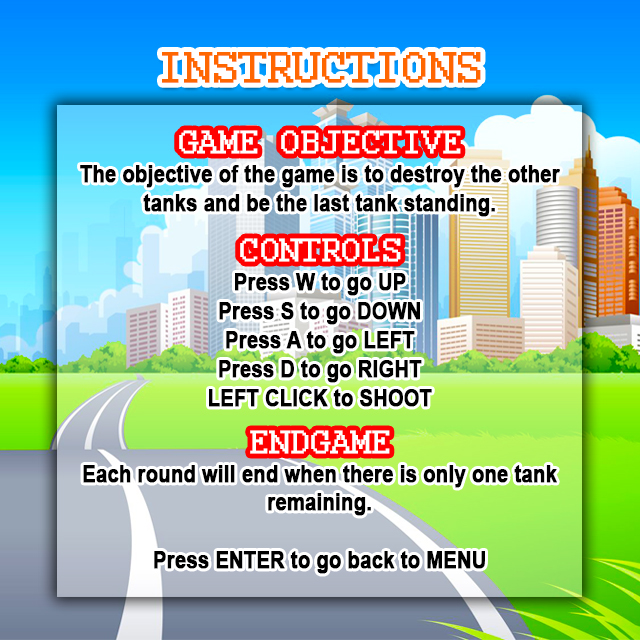
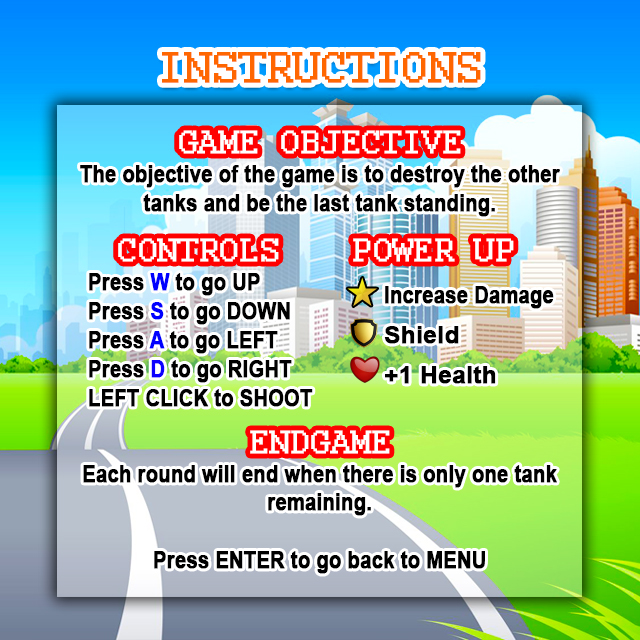
added backgrounds

Changed region(s): [[0.125, 0.3438, 0.875, 0.6562]]

diff --git a/tankCity/src/states/EndState.java b/tankCity/src/states/EndState.java
@@ -1,60 +1,46 @@
 package states;
 
-
 import java.awt.Font;
 
 import org.newdawn.slick.GameContainer;
 import org.newdawn.slick.Graphics;
+import org.newdawn.slick.Image;
+import org.newdawn.slick.Input;
 import org.newdawn.slick.SlickException;
 import org.newdawn.slick.UnicodeFont;
 import org.newdawn.slick.font.effects.ColorEffect;
 import org.newdawn.slick.state.BasicGameState;
 import org.newdawn.slick.state.StateBasedGame;
 
-import tanks.Constants;
-import tanks.Engine;
-import udpModule.UDPclient;
+import tanks.Resources;
 
 public class EndState extends BasicGameState{
-	 private UnicodeFont font;
-	 private float textWidth;
-	 private String text,scores;
-	 private UDPclient udpclient;
-
+	private Image img;
+		
 	@Override
-	public void init(GameContainer arg0, StateBasedGame arg1) throws SlickException {
+	public void init(GameContainer gc, StateBasedGame s) throws SlickException {
 		// TODO Auto-generated method stub
-		font = getNewFont("Arial", 48);
-        udpclient = Engine.udpclient;
+		img = Resources.getImage("endstate");
+		
 	}
 
 	@Override
-	public void render(GameContainer arg0, StateBasedGame arg1, Graphics arg2) throws SlickException {
+	public void render(GameContainer gc, StateBasedGame s, Graphics g) throws SlickException {
 		// TODO Auto-generated method stub
-		font.loadGlyphs();
-		text = "GAME OVER";
-		scores = "";
-        textWidth = font.getWidth(text);
-		font.drawString(Constants.WIDTH/2f - textWidth/2f, 100, text);
-
+		img.draw(0,0);
 	}
-	
+
+	@Override
+	public void update(GameContainer gc, StateBasedGame s, int delta) throws SlickException {
+		// TODO Auto-generated method stub
+		if (gc.getInput().isKeyPressed(Input.KEY_ENTER)){
+            s.enterState(States.MENU);
+        }
+	}
+
 	@Override
 	public int getID() {
 		// TODO Auto-generated method stub
 		return States.END;
 	}
-	public UnicodeFont getNewFont(String fontName, int fontSize) {
-		font = new UnicodeFont(new Font(fontName, Font.BOLD, fontSize));
-		font.addGlyphs("@");
-		font.getEffects().add(new ColorEffect(java.awt.Color.white));
-		return (font);
-	}
-
-	@Override
-	public void update(GameContainer arg0, StateBasedGame arg1, int arg2) throws SlickException {
-		// TODO Auto-generated method stub
-		
-	}
-
 }

diff --git a/tankCity/src/states/ManualState.java b/tankCity/src/states/ManualState.java
@@ -4,6 +4,7 @@ import java.awt.Font;
 
 import org.newdawn.slick.GameContainer;
 import org.newdawn.slick.Graphics;
+import org.newdawn.slick.Image;
 import org.newdawn.slick.Input;
 import org.newdawn.slick.SlickException;
 import org.newdawn.slick.UnicodeFont;
@@ -11,30 +12,22 @@ import org.newdawn.slick.font.effects.ColorEffect;
 import org.newdawn.slick.state.BasicGameState;
 import org.newdawn.slick.state.StateBasedGame;
 
+import tanks.Resources;
+
 public class ManualState extends BasicGameState{
-	private UnicodeFont font;
+	private Image img;
 		
 	@Override
 	public void init(GameContainer gc, StateBasedGame s) throws SlickException {
 		// TODO Auto-generated method stub
-		font = getNewFont("Arial", 16);
+		img = Resources.getImage("instructions");
 		
 	}
 
 	@Override
 	public void render(GameContainer gc, StateBasedGame s, Graphics g) throws SlickException {
 		// TODO Auto-generated method stub
-		g.drawString("GAME OBJECTIVE\n\n      The objective of the game is to destroy the 3 other "
-				+ "\n\rtanks and be the last tank standing."
-				+ " \n\nCONTROLS\n\n     "
-				+ "Press W to go UP\n"
-				+ "     Press S to go DOWN\n"
-				+ "     Press A to go LEFT\n"
-				+ "     Press D to go RIGHT\n"
-				+ "     LEFT CLICK to SHOOT\n\n"
-				+ "ENDGAME\n\n      Each round will end when there is only one tank \nremaining.", 50, 50);
-		g.drawString("Press ENTER to go back to MENU", 170, 420);
-		g.setFont(font);
+		img.draw(0,0);
 	}
 
 	@Override
@@ -43,20 +36,11 @@ public class ManualState extends BasicGameState{
 		if (gc.getInput().isKeyPressed(Input.KEY_ENTER)){
             s.enterState(States.MENU);
         }
-		font.loadGlyphs();
 	}
 
 	@Override
 	public int getID() {
 		// TODO Auto-generated method stub
 		return States.MANUAL;
-	}
-
-	@SuppressWarnings("unchecked")
-	public UnicodeFont getNewFont(String fontName, int fontSize) {
-		font = new UnicodeFont(new Font(fontName, Font.PLAIN, fontSize));
-		font.addGlyphs("@");
-		font.getEffects().add(new ColorEffect(java.awt.Color.white));
-		return (font);
 	}
 }

diff --git a/tankCity/src/states/MenuState.java b/tankCity/src/states/MenuState.java
@@ -1,6 +1,7 @@
 package states;
 
 import org.lwjgl.input.Mouse;
+import org.newdawn.slick.Color;
 import org.newdawn.slick.GameContainer;
 import org.newdawn.slick.Graphics;
 import org.newdawn.slick.Image;
@@ -31,8 +32,7 @@ public class MenuState extends BasicGameState{
 	public void init(GameContainer gc, StateBasedGame s) throws SlickException {
 		// TODO Auto-generated method stub
 		font = getNewFont("Arial", 16);
-		img = new Image("res/logo.png");
-		
+		img = Resources.getImage("menustate");
 		textFieldServer = new TextField(gc, gc.getDefaultFont(), 250, 230, 200, 25);
 		textFieldServer.setText("localhost");
 	    textFieldName = new TextField(gc, gc.getDefaultFont(), 250, 280, 200, 25);
@@ -44,23 +44,12 @@ public class MenuState extends BasicGameState{
 	@Override
 	public void render(GameContainer gc, StateBasedGame s, Graphics g) throws SlickException {
 		// TODO Auto-generated method stub
+		img.draw(0,0);
+		g.setColor(Color.black);
 		g.drawString("Server:", 180, 230);
 		g.drawString("Name: ", 200, 280);
-		g.drawString("Port: ", 200, 330);
+		g.drawString("Port: ", 200, 330);		
 		
-		g.drawImage(Resources.getImage("start"), 260, 390);
-		g.drawImage(Resources.getImage("instructions"), 257, 440);
-		g.drawImage(Resources.getImage("exit"), 297, 490);
-		
-		text = "Garcia, A., Bon, P., Janoras C.";
-		textWidth = font.getWidth(text);
-		g.drawString(text, Constants.WIDTH/2f - textWidth/2f -20, 590);
-		
-		text = "\u00a9 All Rights Reserved.";
-		textWidth = font.getWidth(text);
-		g.drawString(text, Constants.WIDTH/2f - textWidth/2f, 615);
-		
-		img.draw(100, 20, 460, 200);
 		textFieldServer.render(gc, g);
 		textFieldName.render(gc, g);	
 		textFieldPort.render(gc, g);
@@ -82,7 +71,7 @@ public class MenuState extends BasicGameState{
 					// TODO Auto-generated catch block
 					e.printStackTrace();
 				}
-				s.enterState(States.GAME);
+				s.enterState(States.WAIT);
 			}
 		} else if ((posX > 257 && posX < 414) && (posY > 159 && posY < 199)) {
 			if (Mouse.isButtonDown(0)) {

diff --git a/tankCity/src/states/WaitState.java b/tankCity/src/states/WaitState.java
@@ -2,8 +2,10 @@ package states;
 
 import java.awt.Font;
 
+import org.newdawn.slick.Color;
 import org.newdawn.slick.GameContainer;
 import org.newdawn.slick.Graphics;
+import org.newdawn.slick.Image;
 import org.newdawn.slick.SlickException;
 import org.newdawn.slick.UnicodeFont;
 import org.newdawn.slick.font.effects.ColorEffect;
@@ -12,6 +14,7 @@ import org.newdawn.slick.state.StateBasedGame;
 
 import tanks.Constants;
 import tanks.Engine;
+import tanks.Resources;
 import udpModule.UDPclient;
 
 public class WaitState extends BasicGameState{
@@ -20,17 +23,22 @@ public class WaitState extends BasicGameState{
 	 private String text = "";
 	 private UDPclient udpclient;
 	 private int timer;
+	 private Image img;
+	private float textHeight;
 
 	@Override
 	public void init(GameContainer arg0, StateBasedGame arg1) throws SlickException {
 		// TODO Auto-generated method stub
-		font = getNewFont("Arial", 18);
+		font = getNewFont("Arial", 35);
+		img = Resources.getImage("waitstate");
         udpclient = Engine.udpclient;
 	}
 
 	@Override
-	public void render(GameContainer arg0, StateBasedGame arg1, Graphics arg2) throws SlickException {
+	public void render(GameContainer gc, StateBasedGame s, Graphics g) throws SlickException {
 		// TODO Auto-generated method stub
+		img.draw(0,0);
+		g.setColor(Color.black);
 		font.loadGlyphs();
 		if(timer>0 && timer <=500) {
 			text = "Waiting for other players";
@@ -44,7 +52,9 @@ public class WaitState extends BasicGameState{
 			timer = 0;
 		}
         textWidth = font.getWidth(text);
-		font.drawString(Constants.WIDTH/2f - textWidth/2f, 220, text);
+        textHeight = font.getHeight(text);
+        g.setFont(font);
+		g.drawString(text, Constants.WIDTH/2f - textWidth/2f, Constants.TOTAL_HEIGHT/2f - textHeight/2f);
 
 	}
 	

diff --git a/tankCity/src/tanks/Resources.java b/tankCity/src/tanks/Resources.java
@@ -37,9 +37,10 @@ public class Resources {
 			images.put("GREEN_grass", loadImage("res/grass.png"));
 			images.put("star1", loadImage("res/star1.png"));
 			images.put("star2", loadImage("res/star2.png"));
-			images.put("start", loadImage("res/start.png"));
-			images.put("instructions", loadImage("res/instructions.png"));
-			images.put("exit", loadImage("res/exit.png"));
+			images.put("menustate", loadImage("res/menustate.jpg"));
+			images.put("instructions", loadImage("res/instructions.jpg"));
+			images.put("waitstate", loadImage("res/waitstate.png"));
+			images.put("endstate", loadImage("res/endstate.jpg"));
 		} catch (SlickException e) {
 			// TODO Auto-generated catch block
 			e.printStackTrace();
